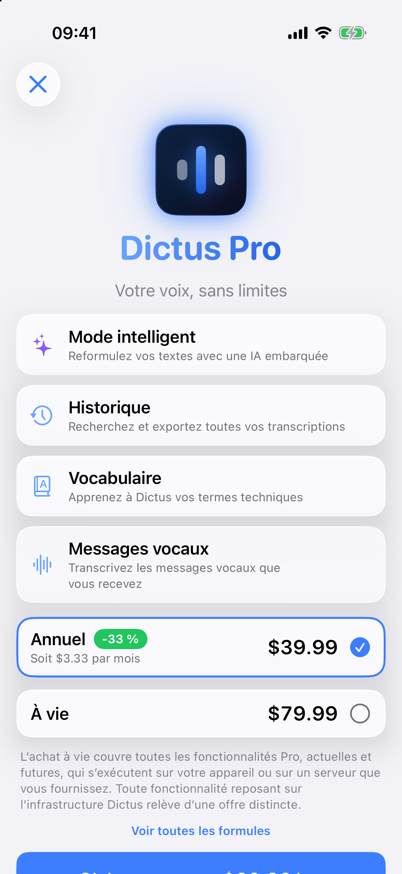
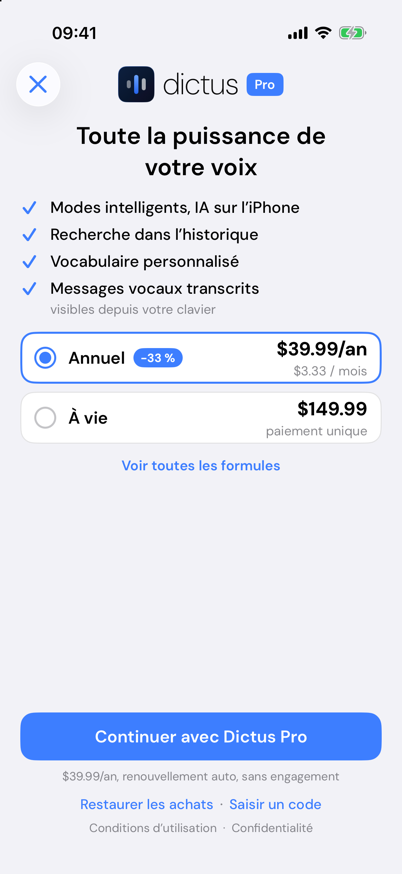
Map the one-screen paywall and record its fit captures (refs #913)
Updates pro.subscription, screens.md (new app.paywall.trial-ended) and the
All IDs count, re-captures app.paywall and app.pro.hub, and stores the
before/after captures per device, language and appearance under
docs/agents/evidence/913/.

diff --git a/.claude/skills/verify-dictus-ios/features/pro.subscription.md b/.claude/skills/verify-dictus-ios/features/pro.subscription.md
@@ -8,11 +8,11 @@
 ## Sub-features
 
 - `pro.hub`: Dictus Pro hub: the four Pro features with their state and settings.
-- `pro.paywall`: Three plans to buy Pro.
+- `pro.paywall`: Three plans to buy Pro, on one screen with no scroll down to an iPhone SE (#913): yearly and lifetime as radio rows, the monthly behind « Voir toutes les formules », the CTA « Continuer avec Dictus Pro » pinned with the billed price, « Restaurer les achats · Saisir un code » and « Conditions d’utilisation · Confidentialité » under it. The lifetime scope is one line shown while « À vie » is selected; its ⓘ opens the full sentence.
 - `pro.restore`: Restore purchases.
 - `pro.redeem-code`: « Saisir un code » / « Redeem a code », under Restore purchases (#787): opens Apple's offer code sheet. Shown wherever plans are sold, like Restore.
 - `pro.trial`: A 14-day trial announced at the end of onboarding.
-- `pro.trial-end`: End-of-trial paywall.
+- `pro.trial-end`: End-of-trial paywall, one screen since #913: « Votre essai est terminé », a one-line recap (« En 14 jours : 6 638 mots dictés, 1 h 22 min gagnées », each value left out at zero), the plans, « Garder Dictus Pro » and « Continuer gratuitement ».
 - `pro.demo`: « Voir la démonstration » on each Pro feature's page.
 
 ## How to get to it (user POV)
@@ -38,10 +38,11 @@ Trial states can be forced from Réglages → Developer → « Reverse trial (#5
 - **Prices need simslim's `store` category.** On the slimmed device `launch.sh` creates, `loadProducts` fails with « Impossible de communiquer avec une application d'aide » (StoreKit's daemon is disabled) and the paywall's buy button stays at « … ». `simslim on <udid> --keep com.apple.remindd --except store` (reboots the device, keeps the install) brings the prices back: on 2026-10-22 an iPhone 17 / iOS 26.5 device showed Yearly $39.99 and Lifetime $79.99 (US storefront). That proves the paywall renders its plans, not that App Store Connect serves the real prices to a French account: that stays a device check.
 - **Not driven in the simulator:** a purchase or a restore.
 - **Redeem a code (#787):** scroll the hub to the bottom, `drive.sh tap-id paywall.redeemCode`. With simslim's `store` category on, Apple's sheet opens (« Activer l'offre » / « Redeem Offer », a Code field, Continuer); its cross sits at about (363, 100) pt and closing logs `storeKit action=offerCodeSheetClosed details=result=success`. On the default slimmed device the sheet cannot open and the log says `subscriptionError action=offerCodeRedemption error=Impossible de communiquer avec une application d’aide.` Redeeming a code is not driven: it needs a sandbox offer code from App Store Connect on an iPhone. Captures: `docs/agents/evidence/787/`.
-- **Trial states (#593):** the end-of-onboarding announcement raises itself (`proTrial action=announcementShown details=kind=newUser`). Réglages → Developer → « Reverse trial (#593) » drives the rest: « Move to the last 2 days » (Home card, Settings badge and the keyboard panel's « Pro · 2 days left » pill), « End the trial now » (end-of-trial paywall, recap then offers), « Forget the trial » + « Forget What's new » then relaunch (What's new, then `kind=existingUser`).
+- **Trial states (#593):** the end-of-onboarding announcement raises itself (`proTrial action=announcementShown details=kind=newUser`). Réglages → Developer → « Reverse trial (#593) » drives the rest: « Move to the last 2 days » (Home card, Settings badge and the keyboard panel's « Pro · 2 days left » pill), « End the trial now » (end-of-trial paywall, one screen since #913; seed `dictus.dictationTally` in the App Group with `{"<yyyy-MM-dd>": {words, audioSeconds}}` for the recap line to show), « Forget the trial » + « Forget What's new » then relaunch (What's new, then `kind=existingUser`).
 - **An ineligible device cannot be simulated.** `SmartModeAvailability.deviceIsCapable` reads Apple Intelligence availability, which a simulator takes from the host Mac: a device created as `iPad-Pro--11-inch-` (A12X, `iPad8,1`) still reports capable and shows every promotion. The ineligible branch is covered by `ProTrialTests.testAnIneligibleDeviceNeverStartsATrialAndIsNeverPromotedTo` and the `deviceCanRunSmartModes: false` cases of `OnboardingStepTests` and `WhatsNewTests`; the device check stays on the iPad.
 - **Reinstall over an ended trial (#837):** the Keychain record survives `xcrun simctl uninstall`, the App Group does not. Seed with « End the trial now », uninstall, reinstall, `set-default dictus.onboardingStep -string completion`, tap `onboarding.primary`: the **ordinary** paywall opens, no « essai terminé », no recap. Log: `proTrial action=restoredEndedBeforeInstall` at launch, then `endOfTrialPaywallShown details=framing=standard`. Closing it (cross or « Continuer gratuitement ») shows the monthly offer once, as the end-of-trial paywall does; the same ordinary paywall opened from Réglages or Home never does. An install that lived through its trial still logs `framing=trialEnded`.
 - Do not set `dictus.proActive`: `SubscriptionManager` resets it at launch.
 - **The four paywall entry points (#279)** show together only for a non-subscriber with no running trial: « End the trial now », then « Continuer gratuitement ». Home Pro card, Home locked « Historique » hint, Réglages → Dictus Pro, and the keyboard panel's « Dictus Pro » pill (☰ held, left of the gear). The pill opens `dictus://open?source=keyboard&intent=pro`: the log shows `<KBD> … openDictusApp details=intent=pro` then `<APP> … keyboardProIntent`. Captures of all four in FR, EN and iPad: `docs/agents/screens/279/`.
 - **English device:** `drive.sh full-access` and `select-keyboard` look for French system labels. On `--lang en` they are « Allow Full Access », « Allow » / « Don’t Allow », « Next keyboard » and « Dictus, Multiple languages ».
 - **iPad (`iPad-Pro--11-inch-`):** Dictus runs in a 375×667 iPhone compatibility window, and `axe describe-ui` reports frames in that window, so `axe tap --label` lands in the wrong place: scale by 1194/667 and centre horizontally. In Safari the Dictus bar sits under the system shortcut bar, about 66 pt below `inputView`'s top, so `kbd` offsets miss it. The pill opens Dictus as a window over Safari, and Safari's keyboard covers the paywall's plans until Dictus is brought forward.
+- **One screen (#913):** the sales layout switches to tighter spacing when the scroll view is under 680 pt tall (iPhone SE: about 600 pt under the bar). Fit measured on iPhone 17 and iPhone SE (3rd generation), FR/EN/DE/ES, light and dark; captures in `docs/agents/evidence/913/`. While the trial runs, the four lines open their feature screens (chevron), as the hub cards did.

diff --git a/.claude/skills/verify-dictus-ios/features/screens.md b/.claude/skills/verify-dictus-ios/features/screens.md
@@ -43,7 +43,8 @@ Captures are in [`docs/agents/screens/`](../../../../docs/agents/screens/), one 
 | `app.pro.vocabulary.suggestions` | « Suggestions depuis l’historique » sheet, « Vos orthographes, écrites autrement » first (Accepter / Ignorer, ids `vocabulary.pair.<rank>.accept` / `.ignore`) | Vocabulaire → « Analyser mes transcriptions » (seeded History, see vocabulary) | vocabulary | [oui](../../../../docs/agents/screens/app.pro.vocabulary.suggestions.png) |
 | `app.pro.vocabulary.pair-review` | « Avant l’ajout » sheet: the change in one sentence, the term and the new variant as editable fields, the term's variants, Annuler / Ajouter | suggestions → tap-id vocabulary.pair.1.accept | vocabulary | [oui](../../../../docs/agents/screens/app.pro.vocabulary.pair-review.png) |
 | `app.pro.voice-notes` | Pro → Messages vocaux (language, after transcription) | hub → « Messages vocaux, … » | voice-notes | [oui](../../../../docs/agents/screens/app.pro.voice-notes.png) |
-| `app.paywall` | Paywall (plans and prices; « Restaurer les achats » then « Saisir un code » at the bottom, #787) | Accueil → « Débloquez Dictus Pro, … » (no trial running); prices need simslim's `store` category, see pro.subscription Gotchas | pro.subscription | [oui](../../../../docs/agents/screens/app.paywall.png) |
+| `app.paywall` | Paywall, one screen (#913): wordmark in the bar, headline, four checkmark lines, yearly and lifetime rows, pinned CTA, « Restaurer les achats · Saisir un code », « Conditions d’utilisation · Confidentialité » | Accueil → « Débloquez Dictus Pro, … » (no trial running); prices need simslim's `store` category, see pro.subscription Gotchas | pro.subscription | [oui](../../../../docs/agents/screens/app.paywall.png) |
+| `app.paywall.trial-ended` | End-of-trial paywall (#913): « Votre essai est terminé », one-line recap, the plans, « Garder Dictus Pro », « Continuer gratuitement » | Réglages → Developer → « End the trial now » | pro.subscription | [oui](../../../../docs/agents/screens/app.paywall.trial-ended.png) |
 | `app.pro.trial-announcement` | Reverse-trial announcement sheet | « C'est prêt » → « Commencer » on a fresh install (`kind=newUser`); or Réglages → Developer → « Forget the trial » + « Forget What's new », relaunch, end of What's new (`kind=existingUser`) | pro.subscription | [oui](../../../../docs/agents/screens/app.pro.trial-announcement.png) |
 | `app.voice-note.result` | Voice-note result cards | share an audio file to Dictus (no messaging app in the simulator) | voice-notes | non |
 | `kbd.keys` | Dictus keyboard, letters (AZERTY), toolbar with ☰ and mic | full-access, select-keyboard | dictation.keyboard, typing.autocorrect | [oui](../../../../docs/agents/screens/kbd.keys.png) |

diff --git a/.claude/skills/verify-dictus-ios/features/README.md b/.claude/skills/verify-dictus-ios/features/README.md
@@ -31,7 +31,7 @@ Out of the map on purpose: the "Developer" section of Réglages (Debug builds on
 
 ## All IDs
 
-Every ID in this map, in one table: the 18 features first, then their 118 sub-features (in the order of the feature files), then the 57 screens of [screens.md](screens.md) — 193 IDs in all. **Gratuit/Pro** is the tier of the feature the ID belongs to. **Spécifique iOS** is « oui » when the ID has no Android equivalent to compare against: the keyboard-to-app hand-off and Full Access (an iOS keyboard extension cannot record and must ask for Full Access), return to the host app, Apple Intelligence (polish), the Dynamic Island (Live Activity, stopping standby), and the App Group check.
+Every ID in this map, in one table: the 18 features first, then their 118 sub-features (in the order of the feature files), then the 58 screens of [screens.md](screens.md) — 194 IDs in all. **Gratuit/Pro** is the tier of the feature the ID belongs to. **Spécifique iOS** is « oui » when the ID has no Android equivalent to compare against: the keyboard-to-app hand-off and Full Access (an iOS keyboard extension cannot record and must ask for Full Access), return to the host app, Apple Intelligence (polish), the Dynamic Island (Live Activity, stopping standby), and the App Group check.
 
 | ID | Gratuit/Pro | Spécifique iOS |
 | --- | --- | --- |
@@ -210,6 +210,7 @@ Every ID in this map, in one table: the 18 features first, then their 118 sub-fe
 | `app.pro.vocabulary.pair-review` | Pro | non |
 | `app.pro.voice-notes` | Pro | non |
 | `app.paywall` | Pro | non |
+| `app.paywall.trial-ended` | Pro | non |
 | `app.pro.trial-announcement` | Pro | non |
 | `app.voice-note.result` | Pro | non |
 | `kbd.keys` | Gratuit | non |
